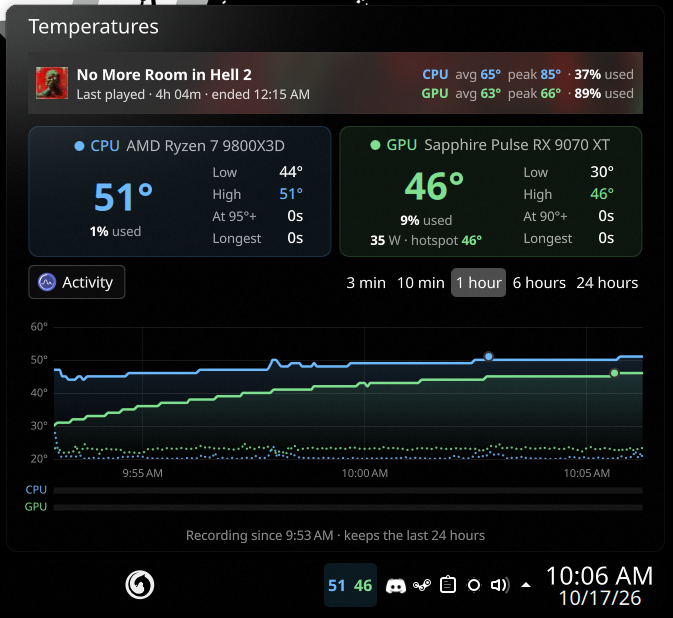
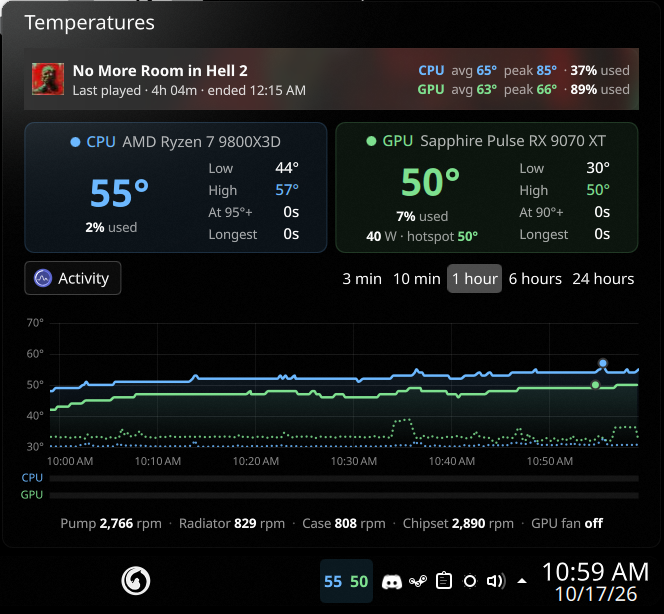
Move fan row under the graph, drop the Recording since line
Fan readings no longer break across lines in a narrow popup, and the row
gets bottom padding. README overview screenshot shows the new layout.

diff --git a/contents/ui/FullRepresentation.qml b/contents/ui/FullRepresentation.qml
@@ -297,39 +297,6 @@ PlasmaExtras.Representation {
             }
         }
 
-        // Pump and fan speeds, live, centered under the cards (hidden when the fan chip can't be read,
-        // e.g. nct6775 not loaded)
-        PlasmaComponents.Label {
-            readonly property var parts: {
-                const muted = Qt.alpha(Kirigami.Theme.textColor, 0.6)
-                const n = v => `<b>${Number(v).toLocaleString(Qt.locale(), "f", 0)}</b> <font color="${muted}">rpm</font>`
-                const out = []
-                // Turned off in settings: only a stopped pump still shows (it's a warning, not a reading)
-                if (!(root.cfg.showFans ?? true))
-                    return root.pumpRpm !== null && root.pumpRpm < 300 ? [`<font color="${root.hotColor}"><b>Pump stopped</b></font>`] : []
-                // A stopped pump on a running PC is worth shouting about
-                if (root.pumpRpm !== null)
-                    out.push(root.pumpRpm < 300 ? `<font color="${root.hotColor}"><b>Pump stopped</b></font>`
-                                                : `<font color="${muted}">Pump</font> ${n(root.pumpRpm)}`)
-                if (root.radiatorRpm !== null) out.push(`<font color="${muted}">Radiator</font> ${n(root.radiatorRpm)}`)
-                if (root.caseFanRpm !== null) out.push(`<font color="${muted}">Case</font> ${n(root.caseFanRpm)}`)
-                if (root.chipsetFanRpm !== null) out.push(`<font color="${muted}">Chipset</font> ${n(root.chipsetFanRpm)}`)
-                if (root.gpuFanRpm !== null)
-                    out.push(`<font color="${muted}">GPU fan</font> ` + (root.gpuFanRpm === 0 ? "<b>off</b>" : n(root.gpuFanRpm)))
-                return out
-            }
-            visible: parts.length > 0 && (root.pumpRpm !== null || root.radiatorRpm !== null || root.caseFanRpm !== null || root.chipsetFanRpm !== null)
-            Layout.fillWidth: true
-            Layout.leftMargin: full.sideMargin
-            Layout.rightMargin: full.sideMargin
-            horizontalAlignment: Text.AlignHCenter
-            textFormat: Text.StyledText
-            font.pointSize: Kirigami.Theme.smallFont.pointSize
-            font.features: { "tnum": 1 }
-            wrapMode: Text.WordWrap
-            text: parts.join(`&nbsp;&nbsp;<font color="${Qt.alpha(Kirigami.Theme.textColor, 0.35)}">·</font>&nbsp;&nbsp;`)
-        }
-
         // Activity button on the left, segmented range picker on the right
         RowLayout {
             Layout.fillWidth: true
@@ -387,20 +354,39 @@ PlasmaExtras.Representation {
             }
         }
 
+        // Pump and fan speeds, live, centered under the graph (hidden when the fan chip can't be read,
+        // e.g. nct6775 not loaded)
         PlasmaComponents.Label {
-            Layout.fillWidth: true
-            horizontalAlignment: Text.AlignHCenter
-            font: Kirigami.Theme.smallFont
-            opacity: 0.55
-            text: {
-                const d = new Date(root.recordingSince), today = new Date()
-                const time = d.toLocaleTimeString(Qt.locale(), Locale.ShortFormat)
-                const yesterday = new Date(today.getFullYear(), today.getMonth(), today.getDate() - 1)
-                const day = d.toDateString() === today.toDateString() ? ""
-                    : d.toDateString() === yesterday.toDateString() ? "yesterday " : d.toLocaleDateString(Qt.locale(), "MMM d") + " "
-                return `Recording since ${day}${time} · keeps the last 24 hours`
+            readonly property var parts: {
+                const muted = Qt.alpha(Kirigami.Theme.textColor, 0.6)
+                const n = v => `<b>${Number(v).toLocaleString(Qt.locale(), "f", 0)}</b>&nbsp;<font color="${muted}">rpm</font>`
+                const out = []
+                // &nbsp; inside each reading so a narrow popup wraps between readings, never inside one
+                // Turned off in settings: only a stopped pump still shows (it's a warning, not a reading)
+                if (!(root.cfg.showFans ?? true))
+                    return root.pumpRpm !== null && root.pumpRpm < 300 ? [`<font color="${root.hotColor}"><b>Pump stopped</b></font>`] : []
+                // A stopped pump on a running PC is worth shouting about
+                if (root.pumpRpm !== null)
+                    out.push(root.pumpRpm < 300 ? `<font color="${root.hotColor}"><b>Pump stopped</b></font>`
+                                                : `<font color="${muted}">Pump</font>&nbsp;${n(root.pumpRpm)}`)
+                if (root.radiatorRpm !== null) out.push(`<font color="${muted}">Radiator</font>&nbsp;${n(root.radiatorRpm)}`)
+                if (root.caseFanRpm !== null) out.push(`<font color="${muted}">Case</font>&nbsp;${n(root.caseFanRpm)}`)
+                if (root.chipsetFanRpm !== null) out.push(`<font color="${muted}">Chipset</font>&nbsp;${n(root.chipsetFanRpm)}`)
+                if (root.gpuFanRpm !== null)
+                    out.push(`<font color="${muted}">GPU&nbsp;fan</font>&nbsp;` + (root.gpuFanRpm === 0 ? "<b>off</b>" : n(root.gpuFanRpm)))
+                return out
             }
+            visible: parts.length > 0 && (root.pumpRpm !== null || root.radiatorRpm !== null || root.caseFanRpm !== null || root.chipsetFanRpm !== null)
+            Layout.fillWidth: true
+            Layout.leftMargin: full.sideMargin
+            Layout.rightMargin: full.sideMargin
+            Layout.bottomMargin: Kirigami.Units.largeSpacing
+            horizontalAlignment: Text.AlignHCenter
+            textFormat: Text.StyledText
+            font.pointSize: Kirigami.Theme.smallFont.pointSize
+            font.features: { "tnum": 1 }
             wrapMode: Text.WordWrap
+            text: parts.join(`&nbsp;&nbsp;<font color="${Qt.alpha(Kirigami.Theme.textColor, 0.35)}">·</font>&nbsp; `)   // the plain space is the only wrap point
         }
     }
 

diff --git a/contents/ui/main.qml b/contents/ui/main.qml
@@ -126,8 +126,6 @@ PlasmoidItem {
     property var gpuHots: []            // GPU hotspot °C and power W, same indexes as times
     property var gpuPowers: []
     property int revision: 0
-    // Where the graph's data starts: its oldest kept sample (at most 24 hours ago), or now when it's empty
-    readonly property double recordingSince: { revision; return times.length ? times[0] : Date.now() }
     property var stats: freshStats()
     property double lastSample: 0
 

diff --git a/README.md b/README.md
@@ -4,7 +4,7 @@ A KDE Plasma 6 panel widget that shows your CPU and GPU temperatures, keeps a gr
 
 > **Personal project.** I built this for my own PC and use it myself. It isn't packaged or supported for anyone else. Parts of it, like the fan sensors, are set up for my hardware. You're welcome to look around or try it, but expect to adjust things, and I may not answer issues or pull requests.
 
-![Temps popup with CPU and GPU cards and the temperature graph](screenshots/overview.png)
+![Temps popup with CPU and GPU cards, the temperature graph, and pump and fan speeds](screenshots/overview.png)
 
 ## Features
 
@@ -13,7 +13,7 @@ A KDE Plasma 6 panel widget that shows your CPU and GPU temperatures, keeps a gr
 The panel shows two colored numbers, CPU and GPU (or the game's icon while you're playing). Click them to open the popup, which shows:
 
 - A card for each device with the current temperature, current usage, and the low, high, time spent at the hot threshold and longest stretch there. The GPU card also shows power draw and hotspot (junction) temperature.
-- A row with pump and fan speeds, if your motherboard's sensor chip is readable.
+- A row under the graph with pump and fan speeds, if your motherboard's sensor chip is readable.
 - A strip at the top with the game you're playing, or the last one you played, with average and peak temperatures and usage.
 
 ### A 24-hour graph
